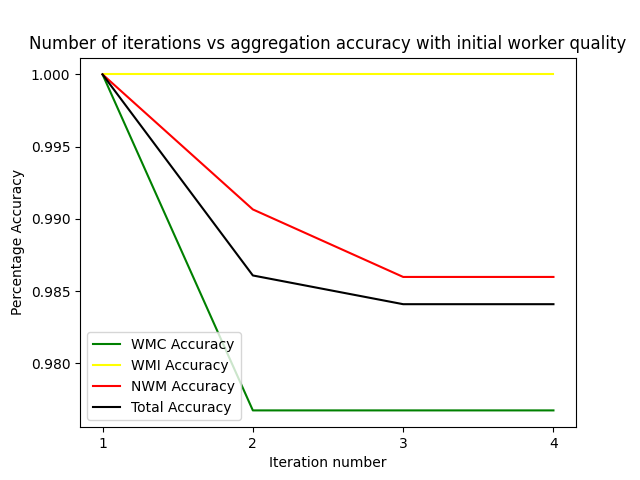
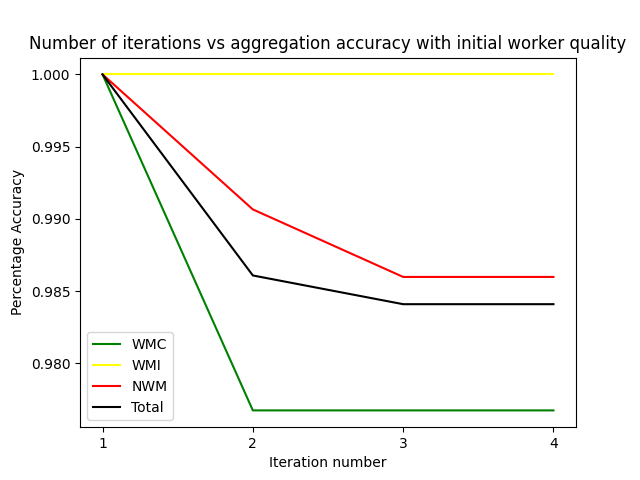
Finished segmentation analysis

Changed region(s): [[0.1875, 0.6875, 0.375, 0.8125], [0.25, 0.8438, 0.375, 0.875], [0.1875, 0.6875, 0.2188, 0.7188]]

diff --git a/src/model_analysis.py b/src/model_analysis.py
@@ -73,7 +73,7 @@ def calculate_model_accuracy():
     # Stores average score for each bounding box category
     avg_scores = [[0, 0] for _ in range(6)]
     # Stores percentage of faces detected in an image
-    detected_faces = [0, 0]
+    detected_faces = [0, 0, 0, 0, 0]
     # Iterate over predictions for each validation image
     for _, row in df.iterrows():
         # Read columns
@@ -81,7 +81,7 @@ def calculate_model_accuracy():
         labels = loads(row['PredictedLabels'])
         true_labels = loads(row['Labels'])
         num_undetected = row['UndetectedFaces']
-        detected_faces[1] += num_undetected
+        detected_faces[4] += num_undetected
         # Iterate over bounding box labels
         for i, label in enumerate(labels):
             label = label_map[label]
@@ -90,13 +90,14 @@ def calculate_model_accuracy():
             quality[true_label][label] += 1
             # Update scores
             avg_scores[true_label][0] += scores[i]
-            avg_scores[true_label][1] += scores[i]
+            avg_scores[true_label][1] += 1
             # Update detection rate
             if true_label < 3:
                 detected_faces[0] += 1
-                detected_faces[1] += 1
+            else:
+                detected_faces[true_label - 2] += 1
 
-    return quality, [total / num for total, num in avg_scores], detected_faces[0] / detected_faces[1]
+    return quality, [total / num for total, num in avg_scores], detected_faces
 
 # Compute accuracy statistics for workers and model
 def accuracy_bar_graph(worker_qual, model_qual, val_model_qual):
@@ -113,27 +114,74 @@ def accuracy_bar_graph(worker_qual, model_qual, val_model_qual):
     model_correct = model_qual[0][0] + model_qual[1][1] + model_qual[2][2]
     model_accs.append(model_correct / model_total)
     # Compute validation model accuracies
-    val_model_total = sum([sum(l) for l in val_model_qual[:3]])
-    val_model_accs = [l[i] / sum(l) for (i, l) in enumerate(val_model_qual[:3])]
+    val_model_total = sum([sum(l) for l in val_model_qual])
+    val_model_accs = [l[i] / sum(l) for (i, l) in enumerate(val_model_qual)]
     val_model_correct = val_model_qual[0][0] + val_model_qual[1][1] + val_model_qual[2][2]
     val_model_accs.append(val_model_correct / val_model_total)
 
     # Plot graph
-    labels = ['WMC Accuracy', 'WMI Accuracy', 'NWM Accuracy', 'Total Accuracy']
-    x = np.arange(len(labels))
+    plt.figure(figsize=(10, 6))
+    labels = ['WMC', 'WMI', 'NWM', 'Total']
+    x = np.arange(len(labels)) * 2
     width = 0.4
-
-    plt.bar(x-width/2, worker_accs, width, label='Worker')
-    plt.bar(x, model_accs, width, label='Model Training')
-    plt.bar(x+width/2, val_model_accs, width,  label='Model Validation')
-    plt.legend()
+    plt.bar(x - width, worker_accs, width=width, label='Worker')
+    plt.bar(x, model_accs, width=width, label='Model Training')
+    plt.bar(x + width, val_model_accs, width=width, label='Model Validation')
+    plt.legend(bbox_to_anchor=(1.27, 0.5), loc='center right')
     plt.xticks(x, labels)
-    plt.title("Images labeled vs Accuracy of Workers and FasterRCNN model")
-    plt.xlabel("Categories")
+    plt.title("Accuracy of Workers and FasterRCNN model")
+    plt.xlabel("Mask Categories")
     plt.ylabel("Percentage Accuracy")
+    plt.subplots_adjust(right=0.8)
     plt.savefig(join(data_dir, analysis_dir, 'worker_model_accuracies.png'))
     plt.show()
 
+# Plot probability of each label given the bounding box label in a bar graph
+def probability_bar_graph(cm):
+    cm = [[x / sum(l) for x in l] for l in cm]
+    labels = ['WMC', 'WMI', 'NWM', 'Duplicate', 'Unverifiable', 'Incorrect']
+    x = np.arange(len(labels)) * 5
+    width = 2
+    plt.bar(x, scores, width=width, color=['green', 'yellow', 'red', 'blue', 'orange', 'purple'])
+    plt.title('Probability distribution of mask categories given bounding box categories')
+    plt.xticks(x, labels)
+    plt.xlabel('Bounding Box Categories')
+    plt.ylabel('Percentage Confidence')
+    plt.ylim((0, 1))
+    plt.savefig(join(data_dir, analysis_dir, 'model_scores.png'))
+    plt.show()
+
+# Plot average scores for each bounding box category
+def scores_bar_graph(scores):
+    labels = ['WMC', 'WMI', 'NWM', 'Duplicate', 'Unverifiable', 'Incorrect']
+    x = np.arange(len(labels)) * 5
+    width = 2
+    plt.bar(x, scores, width=width, color=['green', 'yellow', 'red', 'blue', 'orange', 'purple'])
+    plt.title('Average model confidence score for each bounding box category')
+    plt.xticks(x, labels)
+    plt.xlabel('Bounding Box Categories')
+    plt.ylabel('Percentage Confidence')
+    plt.ylim((0, 1))
+    plt.savefig(join(data_dir, analysis_dir, 'model_scores.png'))
+    plt.show()
+
+def detection_rate_pie_chart(detect_rate):
+    labels = ['Detected', 'Undetected']
+    sizes = detect_rate[::4]
+    explode = (0, 0.1)
+    plt.pie(sizes, explode=explode, labels=labels, autopct='%1.1f%%',
+        shadow=True, startangle=0, colors=['green', 'red'])
+    plt.title('Percentage of faces detected by model')
+    plt.savefig(join(data_dir, analysis_dir, 'face_detect.png'))
+    plt.show()
+    labels = ['Verifiable', 'Duplicate', 'Unverifiable', 'Incorrect']
+    sizes = detect_rate[:4]
+    explode = (0.1, 0.05, 0.05, 0.05)
+    plt.pie(sizes, explode=explode, labels=labels, autopct='%1.1f%%',
+        shadow=True, startangle=10, colors=['green', 'blue', 'orange', 'purple'])
+    plt.title('Percentage makeup of model bounding boxes')
+    plt.savefig(join(data_dir, analysis_dir, 'bounding_boxe_categories.png'))
+    plt.show()
 
 # Draw scatter plot of workers and model with random and majority baseline
 # Plot Image labeled vs Accuracy
@@ -196,8 +244,11 @@ def main():
     worker_qual = calculate_worker_quality(labels)
     model_qual = calculate_preliminary_model_accuracy(labels)
     val_model_qual, scores, detect_rate = calculate_model_accuracy()
-    accuracy_bar_graph(worker_qual, model_qual, val_model_qual)
-    # preliminary_scatter_plot(worker_qual, model_qual)
+    accuracy_bar_graph(worker_qual, model_qual, val_model_qual[:3])
+    probability_bar_graph(val_model_qual)
+    scores_bar_graph(scores)
+    detection_rate_pie_chart(detect_rate)
+    scatter_plot(worker_qual, model_qual, val_model_qual)
 
 if __name__ == '__main__':
     main()

diff --git a/src/result_process.py b/src/result_process.py
@@ -48,22 +48,14 @@ def worker_quality(df):
             time[k][1],
             time[k][0] / time[k][1],
             # Compute accuracies
-            m[0][0] / sum(m[0]),
-            m[1][1] / sum(m[1]),
-            m[2][2] / sum(m[2]),
+            0 if sum(m[0]) == 0 else m[0][0] / sum(m[0]),
+            0 if sum(m[1]) == 0 else m[1][1] / sum(m[1]),
+            0 if sum(m[2]) == 0 else m[2][2] / sum(m[2]),
             (m[0][0] + m[1][1] + m[2][2]) / sum([sum(l) for l in m]),
             # Check if worker is accurate for each classification label
-            all([l[i] / sum(l) >= 0.9 for i, l in enumerate(m)])
+            all([(0 if sum(l) == 0 else l[i] / sum(l)) >= 0.9 for i, l in enumerate(m)])
         ) for k, m in quality.items()]), { # Normalize Confusion Matrix
-            k: [[0 if sum(m[0]) == 0 else m[0][0] / sum(m[0]), 
-                 0 if sum(m[0]) == 0 else m[0][1] / sum(m[0]),
-                 0 if sum(m[0]) == 0 else m[0][2] / sum(m[0])],
-                [0 if sum(m[1]) == 0 else m[1][0] / sum(m[1]), 
-                 0 if sum(m[1]) == 0 else m[1][1] / sum(m[1]),
-                 0 if sum(m[1]) == 0 else m[1][2] / sum(m[1])],
-                [0 if sum(m[2]) == 0 else m[2][0] / sum(m[2]), 
-                 0 if sum(m[2]) == 0 else m[2][1] / sum(m[2]),
-                 0 if sum(m[2]) == 0 else m[2][2] / sum(m[2])]]
+            k: [[0 if sum(l) == 0 else x / sum(l) for x in l] for l in m]
             for k, m in quality.items()}
 
 def em_worker_quality(rows, labels):
@@ -89,15 +81,7 @@ def em_worker_quality(rows, labels):
             quality[worker][truelabel][label] += 1
             
     # Return normalized confusion matrix
-    return { k: [[0 if sum(m[0]) == 0 else m[0][0] / sum(m[0]), 
-                  0 if sum(m[0]) == 0 else m[0][1] / sum(m[0]),
-                  0 if sum(m[0]) == 0 else m[0][2] / sum(m[0])],
-                 [0 if sum(m[1]) == 0 else m[1][0] / sum(m[1]), 
-                  0 if sum(m[1]) == 0 else m[1][1] / sum(m[1]),
-                  0 if sum(m[1]) == 0 else m[1][2] / sum(m[1])],
-                 [0 if sum(m[2]) == 0 else m[2][0] / sum(m[2]), 
-                  0 if sum(m[2]) == 0 else m[2][1] / sum(m[2]),
-                  0 if sum(m[2]) == 0 else m[2][2] / sum(m[2])]]
+    return { k: [[0 if sum(l) == 0 else x / sum(l) for x in l] for l in m]
             for k, m in quality.items()}
 
 # Aggregation

diff --git a/src/aggregation_analysis.py b/src/aggregation_analysis.py
@@ -26,9 +26,9 @@ def compute_accuracies(df, labels):
         pred_label = label_map[labels[join(s3, image)]]
         cm[true_label][pred_label] += 1
     return (
-        cm[0][0] / sum(cm[0]),
-        cm[1][1] / sum(cm[1]),
-        cm[2][2] / sum(cm[2]),
+        0 if sum(cm[0]) == 0 else cm[0][0] / sum(cm[0]) ,
+        0 if sum(cm[1]) == 0 else cm[1][1] / sum(cm[1]),
+        0 if sum(cm[2]) == 0 else cm[2][2] / sum(cm[2]),
         (cm[0][0] + cm[1][1] + cm[2][2]) / sum([sum(l) for l in cm])
     )
 
@@ -61,10 +61,10 @@ def accuracy_iteration_plot(result_df, true_df, worker_qual):
         nwms.append(nwm_acc)
         totals.append(total_acc)
         i += 1
-    plt.plot(xs, wmcs, color='green', label='WMC Accuracy')
-    plt.plot(xs, wmis, color='yellow', label='WMI Accuracy')
-    plt.plot(xs, nwms, color='red', label='NWM Accuracy')
-    plt.plot(xs, totals, color='black', label='Total Accuracy')
+    plt.plot(xs, wmcs, color='green', label='WMC')
+    plt.plot(xs, wmis, color='yellow', label='WMI')
+    plt.plot(xs, nwms, color='red', label='NWM')
+    plt.plot(xs, totals, color='black', label='Total')
     plt.xticks(range(1, i))
     plt.legend()
     plt.xlabel("Iteration number")
@@ -130,8 +130,8 @@ def worker_accuracy_iteration_plot(result_df, true_df, worker_qual):
     plt.xticks(range(i))
     cmappable = ScalarMappable(norm=Normalize(0,1), cmap=cmap)
     cbar = plt.colorbar(cmappable)
-    #cbar.ax.get_yaxis().labelpad = 15
-    #cbar.ax.set_ylabel('Minimum accuracy across all mask categories', rotation=270)
+    cbar.ax.get_yaxis().labelpad = 15
+    cbar.ax.set_ylabel('Minimum accuracy across all mask categories', rotation=270)
     if init:
         plt.title("Number of iterations vs worker accuracy with initial worker quality")
         plt.savefig(join(data_dir, analysis_dir, 'worker_accuracy_iteration_with_initial.png'))

diff --git a/src/quality_control_analysis.py b/src/quality_control_analysis.py
@@ -42,7 +42,7 @@ def worker_task_accuracy_scatter_plot(df):
 
 # Bar graph of average worker performance on all categories
 def worker_accuracy_bar_graph(df):
-    xs = ['WMC Accuracy', 'WMI Accuracy', 'NWM Accuracy', 'Total Accuracy']
+    xs = ['WMC', 'WMI', 'NWM', 'Total']
     keys = [
         'WearingMaskCorrectlyAccuracy', 'WearingMaskIncorrectlyAccuracy', 
         'NotWearingMaskAccuracy', 'TotalAccuracy'
@@ -58,8 +58,8 @@ def worker_accuracy_bar_graph(df):
     # Plot bar graph
     ys = [total[i+1] / total[0] for i,_ in enumerate(keys)]
     plt.bar(xs, ys, color=['green', 'yellow', 'red', 'black'])
-    plt.title('Average worker accuracy across all categories')
-    plt.xlabel('Categories')
+    plt.title('Average worker accuracy across all mask categories')
+    plt.xlabel('Mask Categories')
     plt.ylabel('Percentage Accuracy')
     plt.ylim((0, 1))
     plt.savefig(join(data_dir, analysis_dir, 'worker_gold_standard_accuracies.png'))

diff --git a/docs/README.md b/docs/README.md
@@ -15,7 +15,7 @@ Our project, WYM - Wear Your Mask, is a live application that utilizes camera re
     - model_performance.csv: model performance on validation images containing bounding boxes, predicted labels, scores for prediction, true labels, and number of undetected faces identified by user
     - worker_accuracy_iteration_with_initial.png: plot of iteration number vs individual worker accuracy with gold standard quality as initial quality
     - worker_accuracy_iteration_without_initial.png: plot of iteration number vs individual worker accuracy assuming all workers are initially perfect
-    - worker_model_accuracies.csv: accuracies of all workers combined and our model on labeling classification images
+    - worker_model_accuracies.png: bar graph representing accuracies of all workers combined and our model on labeling classification images and validation images
     - worker_model_quality.png: graph of classification images labeled vs accuracy of workers and our FasterRCNN model
 - bounding_hit_input(0-1).csv: generated CSV input for bounding box HITs
 - bounding_hit_output.csv: output from bounding box HITs
